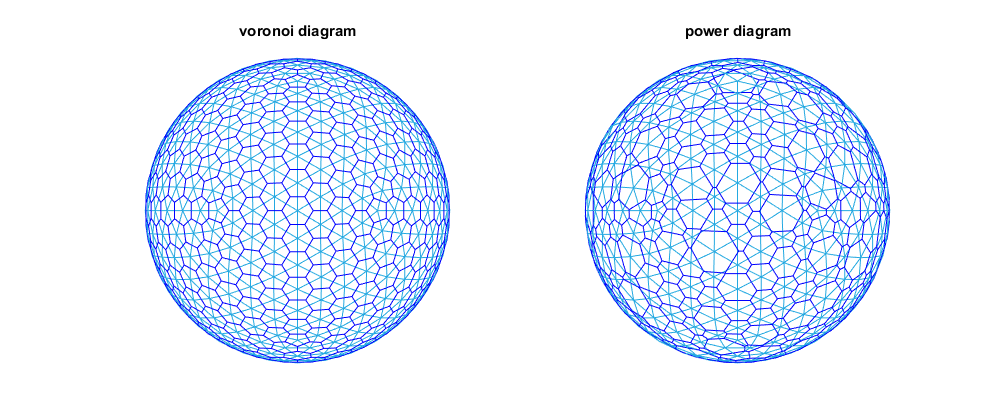
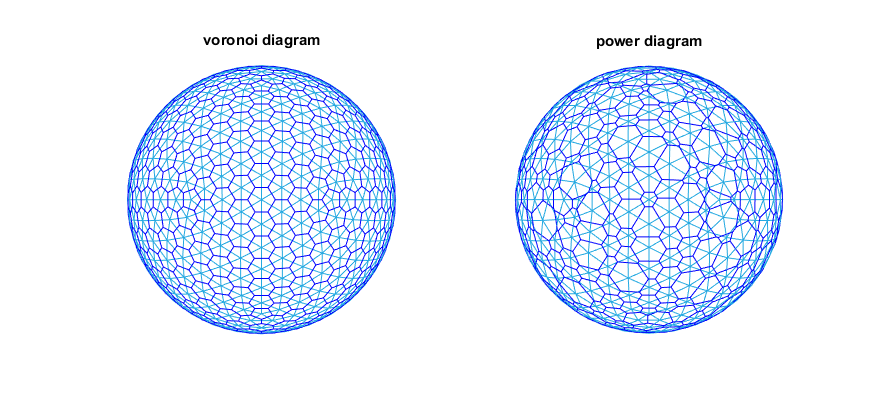
update demo picture

Changed region(s): [[0.1227, 0.06, 0.4602, 0.87], [0.583, 0.06, 0.8898, 0.87]]

diff --git a/demo.m b/demo.m
@@ -9,7 +9,7 @@ radius = rand(size(vertex,1),1)*0.15;
 pd = spherical_power_diagram(vertex,radius);
 
 % plot
-figure('Position',[580 400 1000 420]);
+figure('Position',[580 400 880 400]);
 subplot(1,2,1)
 trimesh(face,vertex(:,1),vertex(:,2),vertex(:,3),'EdgeColor',[36 169 225]/255)
 hold on
